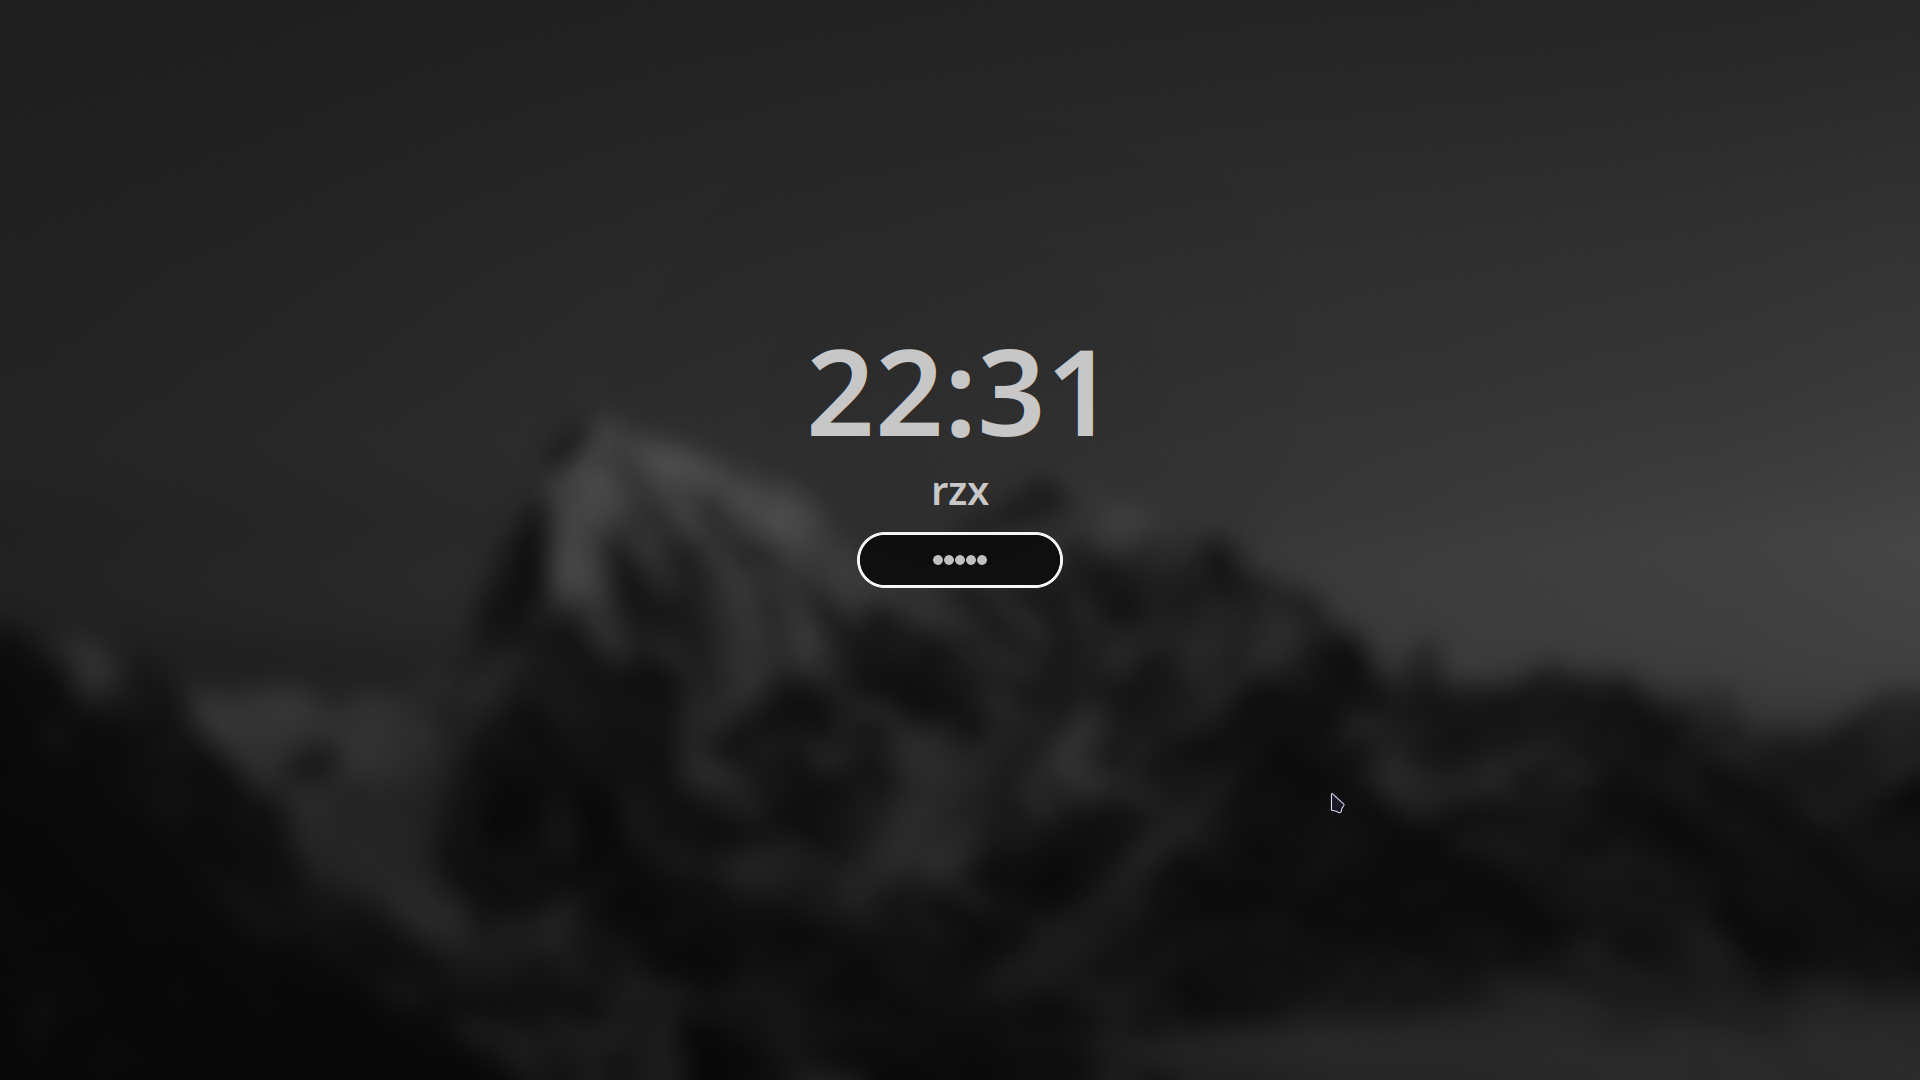
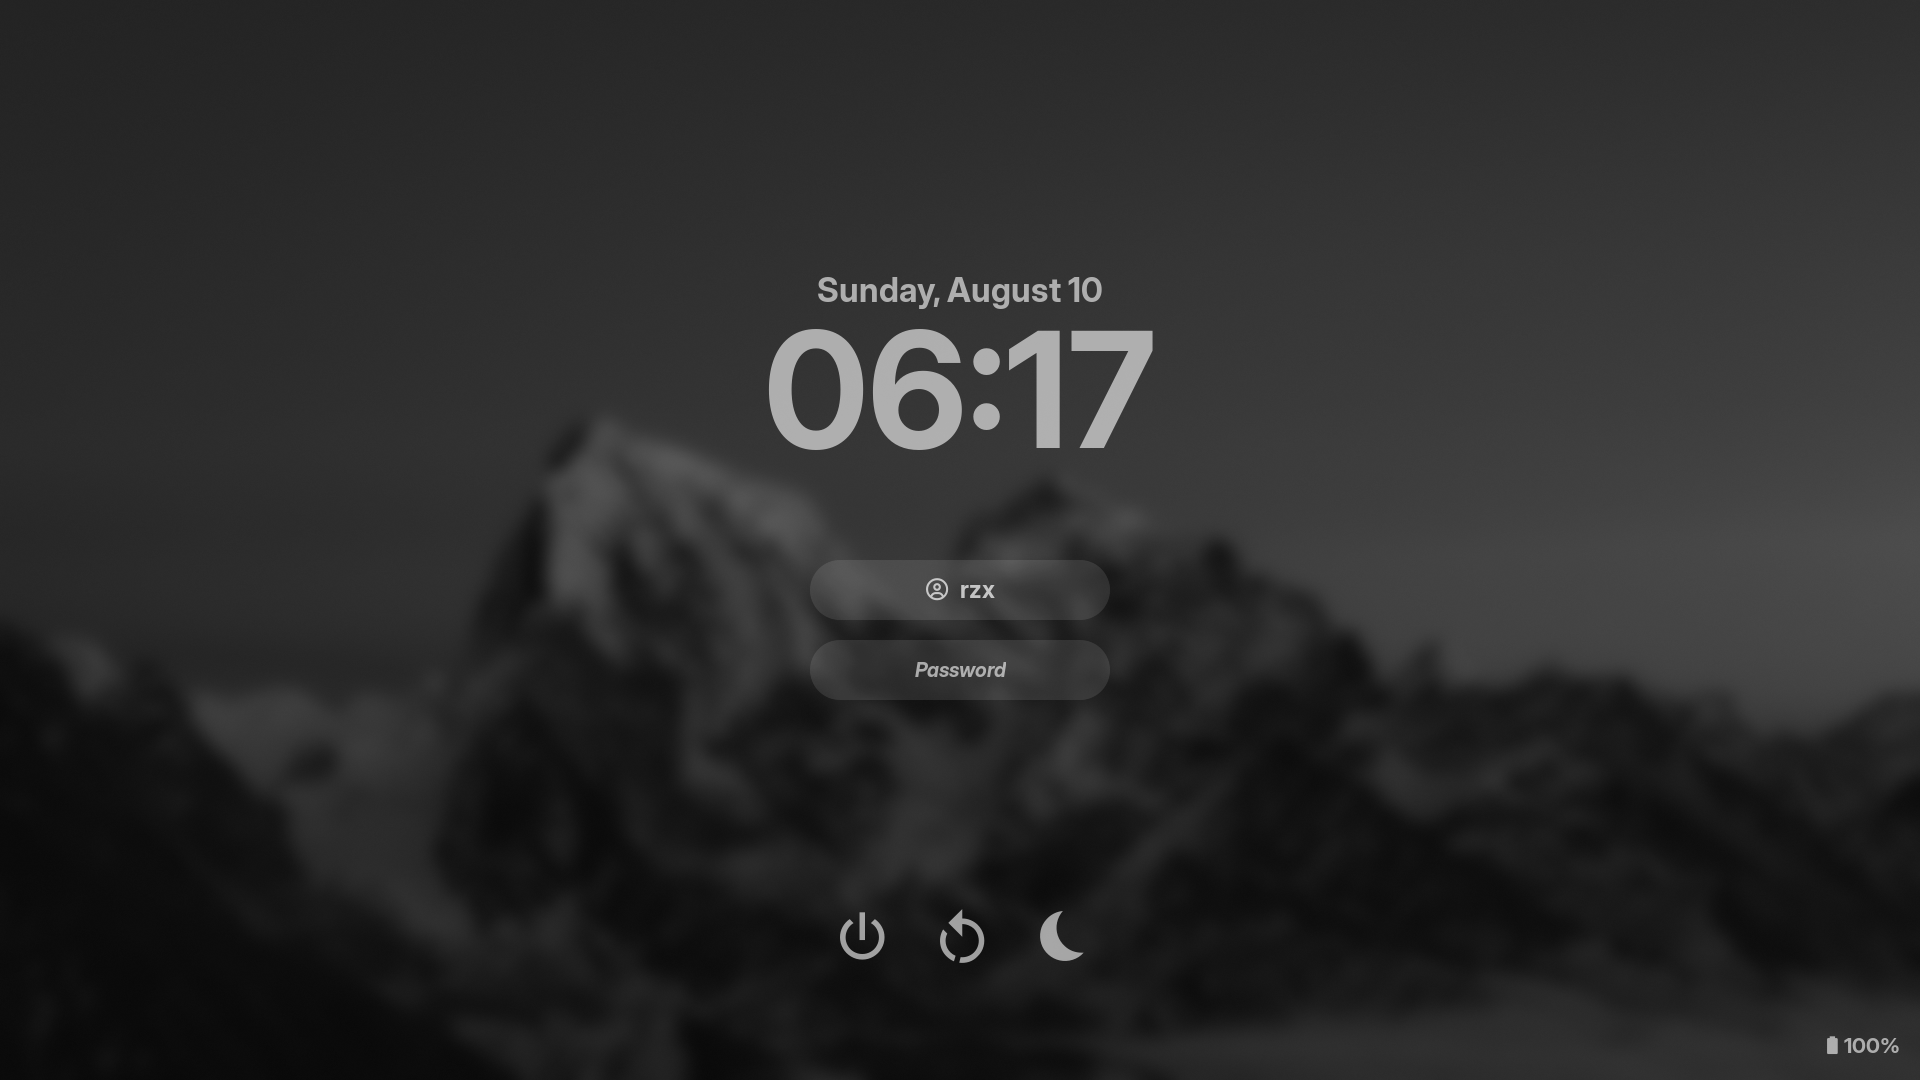
Обновлен стиль Hyprlock

diff --git a/README.md b/README.md
@@ -259,7 +259,7 @@ yay -S rose-pine-cursor rose-pine-hyprcursor
   sudo pacman -S noto-fonts noto-fonts-emoji noto-fonts-cjk noto-fonts-extra
   ```
 
-- [JetBrains Mono Nerd](https://www.jetbrains.com/lp/mono/) для VSCode и Waybar
+- [JetBrains Mono Nerd](https://www.jetbrains.com/lp/mono/) для VSCode и [Waybar](#waybar)
 
   ```
   sudo pacman -S ttf-jetbrains-mono-nerd
@@ -269,6 +269,12 @@ yay -S rose-pine-cursor rose-pine-hyprcursor
 
   ```
   yay -S ttf-meslo-nerd-font-powerlevel10k
+  ```
+
+- [Inter](https://rsms.me/inter/) необходимый шрифт для [Hyprlock](#hyprlock)
+
+  ```
+  sudo pacman -S inter-font
   ```
 
 ## Hypridle
